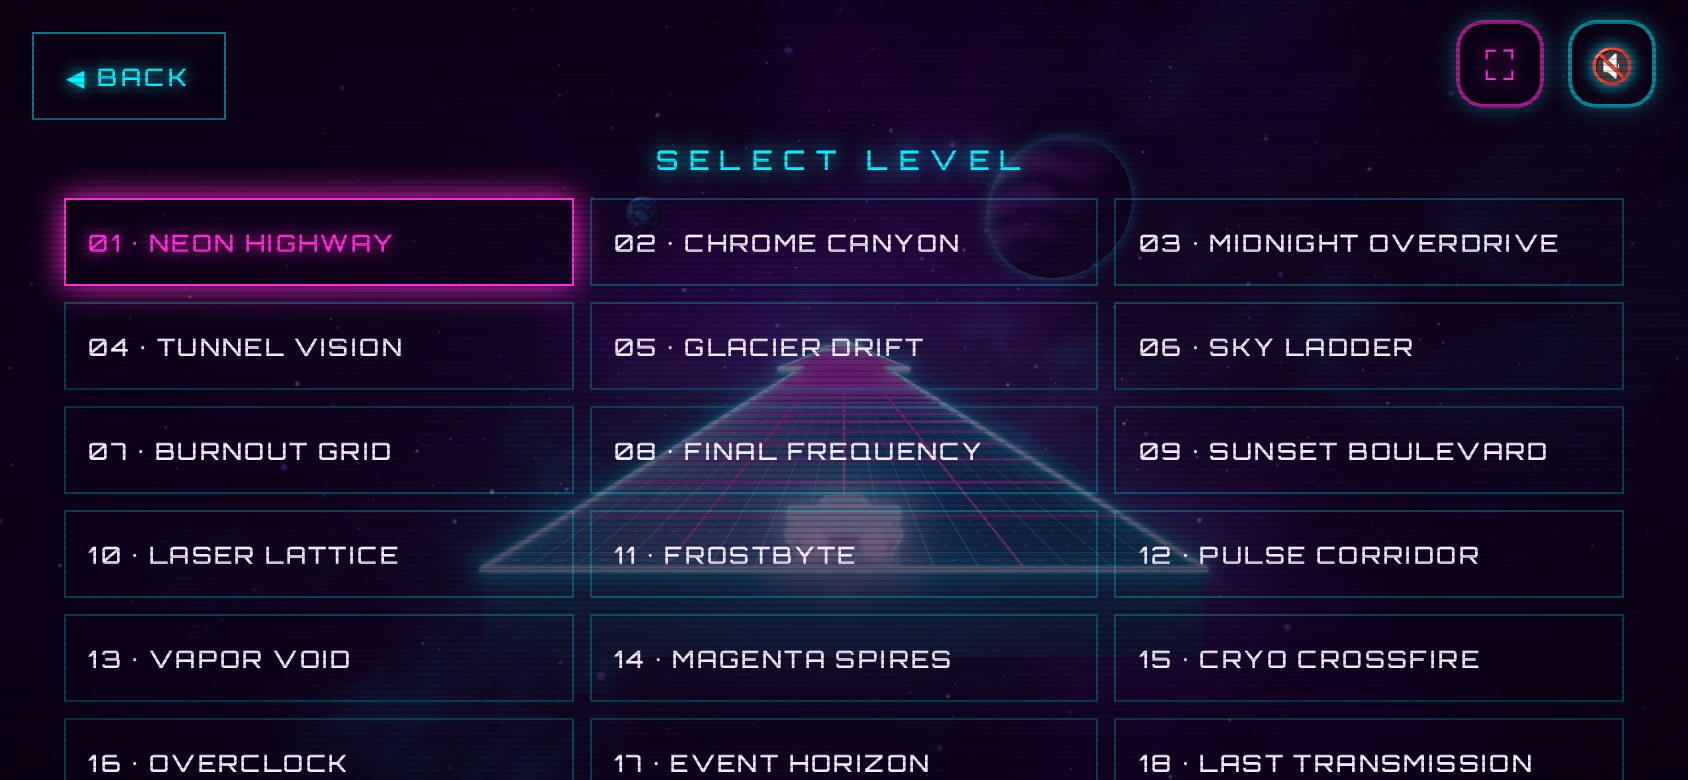
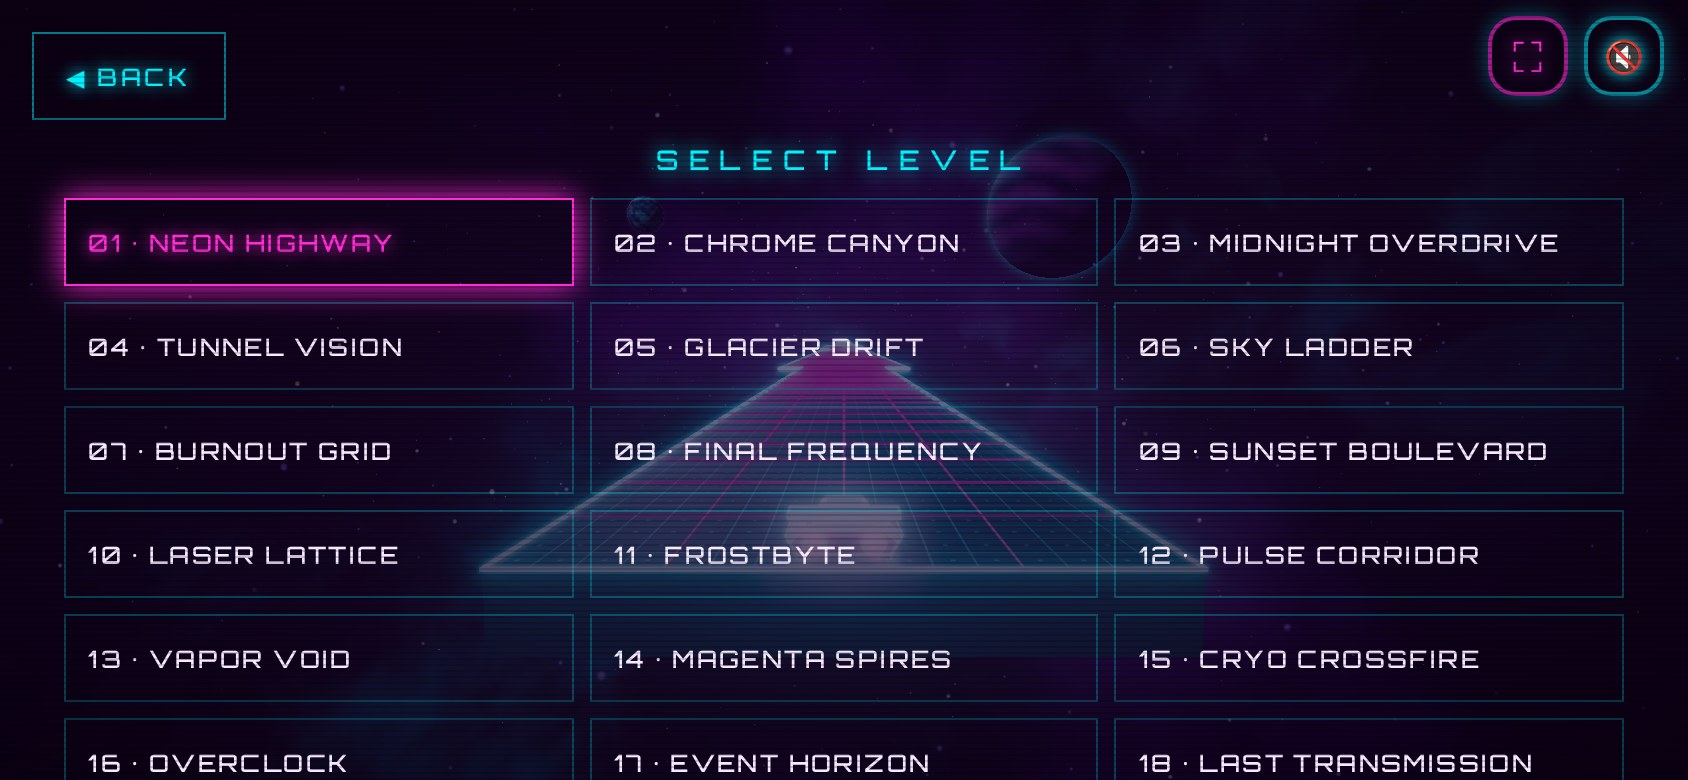
Fix mobile full screen button and shrink the touch HUD
The full screen button moved when the first touch added the touch class, so
that tap missed it: coarse pointers now get its place from the start. The
buttons, gauges and progress bar are smaller on touch screens.

Changed region(s): [[0.8626, 0.0, 0.9858, 0.1538]]

diff --git a/src/synthride/server/html_page_builder.py b/src/synthride/server/html_page_builder.py
@@ -162,13 +162,18 @@ body.touch #hud:not([hidden]) ~ #touch { display: block; }
   inset 0 0 18px rgba(255,43,214,0.2); text-shadow: 0 0 8px currentColor; }
 .pad.held { color: #fff; border-color: var(--pink); background: rgba(255,43,214,0.35);
   box-shadow: 0 0 24px var(--pink); }
-.touch-button { position: fixed; top: max(10px, env(safe-area-inset-top)); width: 44px; height: 44px;
-  font-size: 1.1rem; }
-#mute { right: max(16px, env(safe-area-inset-right)); z-index: 4; }
-.touch-menu { right: calc(max(16px, env(safe-area-inset-right)) + 56px); }
+.touch-button { position: fixed; top: max(8px, env(safe-area-inset-top)); width: 40px; height: 40px;
+  font-size: 1rem; }
+#mute { right: max(12px, env(safe-area-inset-right)); z-index: 4; }
+.touch-menu { right: calc(max(12px, env(safe-area-inset-right)) + 48px); }
 body.touch #mute { display: block; }
-body.touch .hud-top, body.touch .progress { margin-right: 168px; }
-body.touch .hud-bottom { top: 4.2rem; bottom: auto; right: 16px; }
+body.touch #hud { padding: 8px 12px; font-size: 0.65rem; }
+body.touch .hud-top, body.touch .progress { margin-right: 144px; }
+body.touch .progress { margin-top: 0.3rem; height: 3px; }
+body.touch .hud-bottom { top: 3.1rem; bottom: auto; right: 12px; left: auto; width: 11rem; grid-template-columns: 1fr;
+  gap: 0.3rem; }
+body.touch .gauge { height: 6px; }
+body.touch .gauge-label { margin-bottom: 0.1rem; letter-spacing: 0.15em; }
 body.touch .keys, body.touch .key-text { display: none; }
 body.touch .touch-text { display: inline; }
 body.touch .menu-back { display: block; align-self: flex-start; flex-shrink: 0; font: inherit; font-size: 0.75rem;
@@ -183,19 +188,27 @@ body.touch .level-list li:active { border-color: var(--pink); color: var(--pink)
   border: 2px solid rgba(0,240,255,0.55); border-radius: 14px; text-shadow: 0 0 8px currentColor;
   box-shadow: 0 0 10px rgba(0,240,255,0.35); }
 body:not(.touch) #fullscreen { display: block; }
+/* On a phone it sits beside the mute button. Coarse pointers get that place from the start, not only once the first
+   touch adds the "touch" class: the button would move between that touch's start and end, and the tap would miss it */
+@media (pointer: coarse) {
+  #fullscreen { display: block; top: max(8px, env(safe-area-inset-top)); width: 40px; height: 40px;
+    right: calc(max(12px, env(safe-area-inset-right)) + 48px); }
+  #hud:not([hidden]) ~ #fullscreen { right: calc(max(12px, env(safe-area-inset-right)) + 96px); }
+}
 /* On a phone it sits beside the mute button, past the menu button while playing. It must stay shown from the first
    touch: hiding it then would swallow the tap that is meant for it */
-body.touch #fullscreen { display: block; top: max(10px, env(safe-area-inset-top)); width: 44px; height: 44px;
-  right: calc(max(16px, env(safe-area-inset-right)) + 56px); }
-body.touch #hud:not([hidden]) ~ #fullscreen { right: calc(max(16px, env(safe-area-inset-right)) + 112px); }
+body.touch #fullscreen { display: block; top: max(8px, env(safe-area-inset-top)); width: 40px; height: 40px;
+  right: calc(max(12px, env(safe-area-inset-right)) + 48px); }
+body.touch #hud:not([hidden]) ~ #fullscreen { right: calc(max(12px, env(safe-area-inset-right)) + 96px); }
 body:not(.touch) .hud-top, body:not(.touch) .progress { margin-right: 56px; }
 body.fullscreen #fullscreen { color: var(--pink); border-color: rgba(255,43,214,0.6); }
 /* Held upright, the buttons take a row of their own on top, and the HUD and menus start below it */
 @media (orientation: portrait) {
-  body.touch #hud { padding-top: calc(max(10px, env(safe-area-inset-top)) + 54px); }
+  body.touch #hud { padding-top: calc(max(8px, env(safe-area-inset-top)) + 46px); }
   body.touch .hud-top, body.touch .progress { margin-right: 0; }
-  body.touch .hud-bottom { top: calc(max(10px, env(safe-area-inset-top)) + 54px + 3.4rem); left: 16px; gap: 0.5rem; }
-  body.touch .overlay { padding-top: calc(max(10px, env(safe-area-inset-top)) + 54px); justify-content: flex-start; }
+  body.touch .hud-bottom { top: calc(max(8px, env(safe-area-inset-top)) + 46px + 2.2rem); left: 12px; right: 12px;
+    width: auto; grid-template-columns: repeat(3, 1fr); gap: 0.5rem; }
+  body.touch .overlay { padding-top: calc(max(8px, env(safe-area-inset-top)) + 46px); justify-content: flex-start; }
   body.touch .stick { width: min(150px, 38vw); }
   body.touch .pad-jump { width: min(104px, 27vw); }
   body.touch .level-columns { width: 100%; padding: 0 16px; box-sizing: border-box; }
